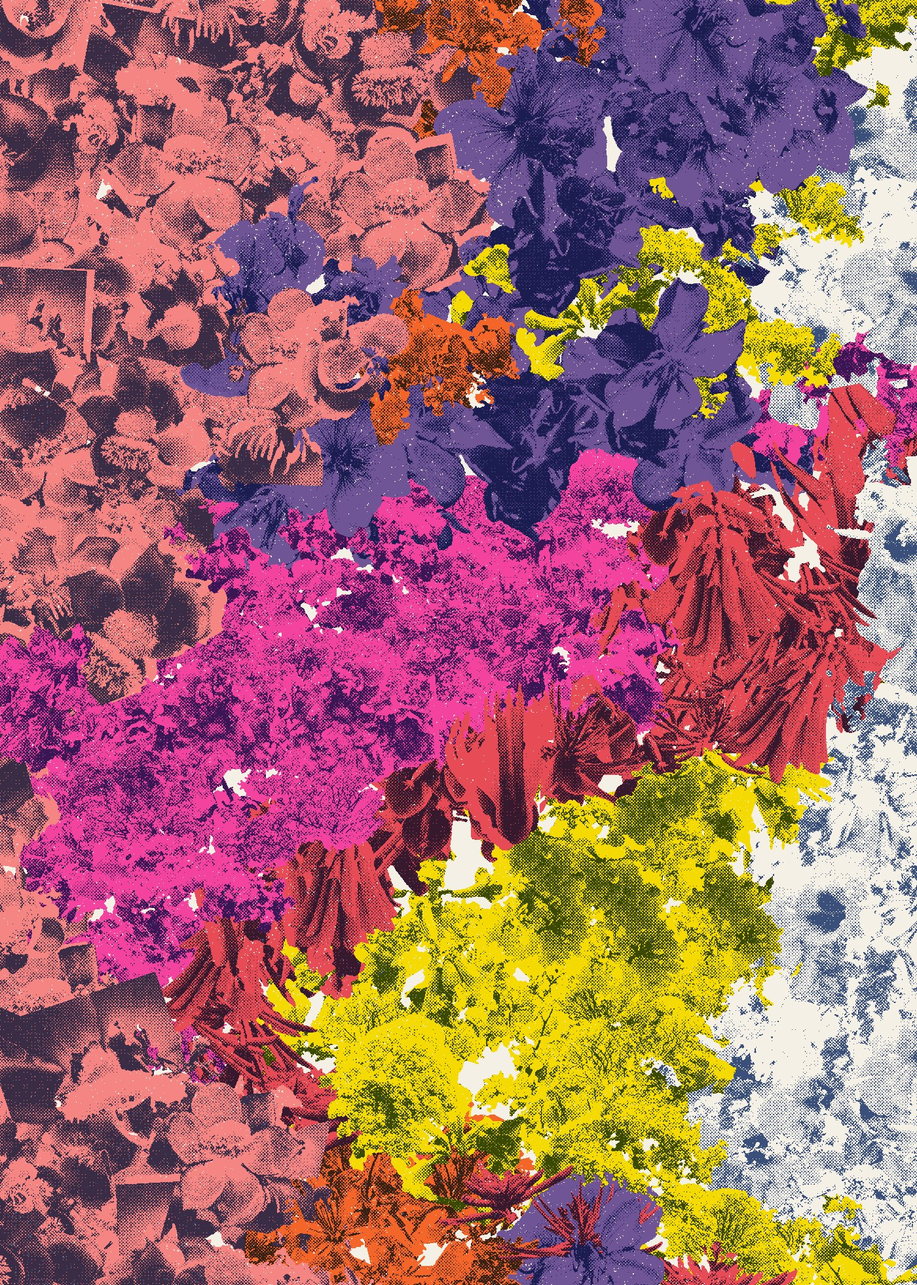
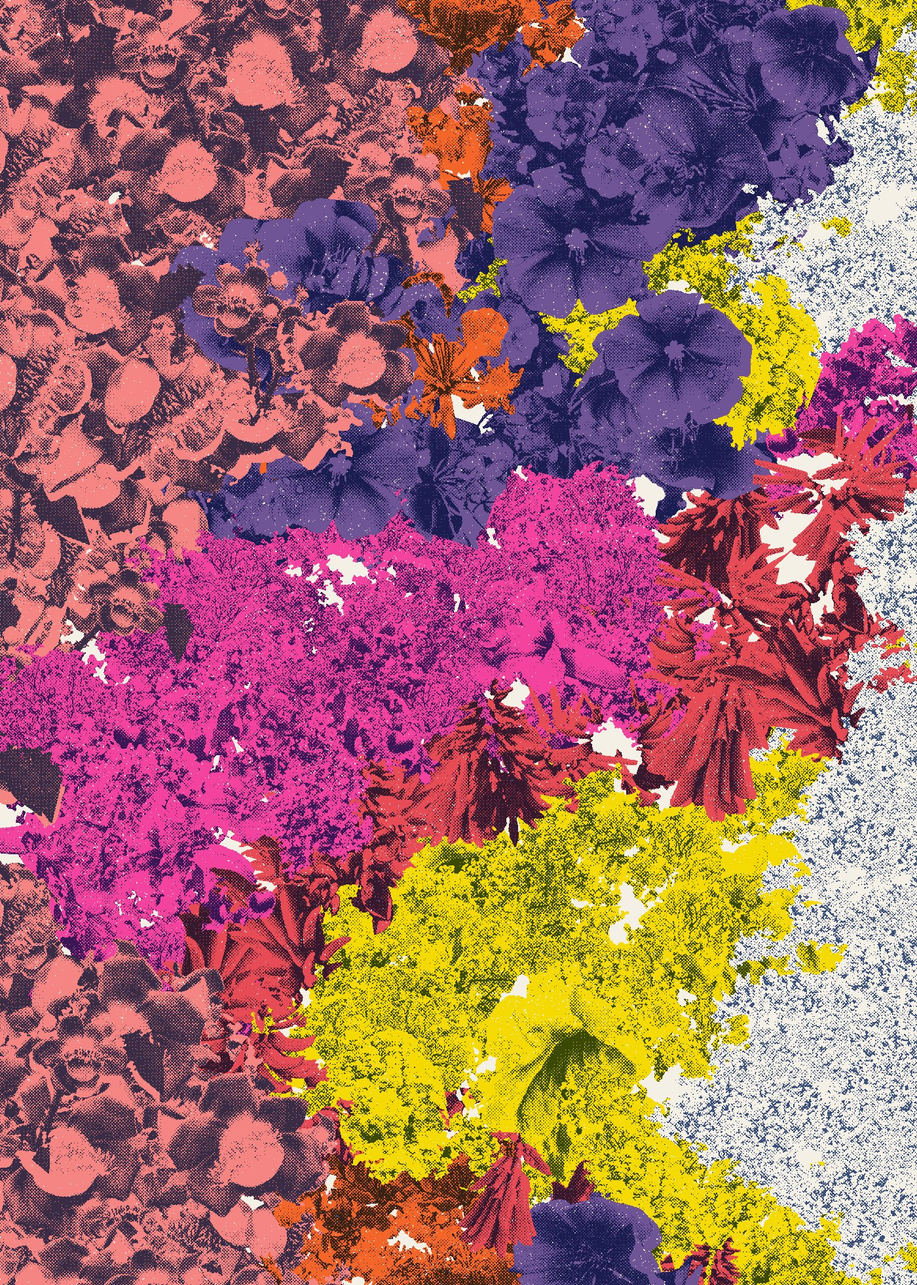
Pôsteres só com fotos CC0
Aves migratórias e árvores em flor refeitos usando apenas fotos do
iNaturalist dedicadas ao domínio público (CC0). Aves: sorteio por espécie,
aves menores e mais espaço. O rodapé de cada pôster agora informa a licença
das fotos.

diff --git a/index.html b/index.html
@@ -131,7 +131,7 @@ footer { font-size: 11.5px; color: var(--muted); max-width: 70ch; }
 </div>
 
 <script>
-const POSTERES = [{"id": "arvores", "titulo": "Árvores em flor", "subtitulo": "As árvores que mais florescem no Rio, semana a semana ao longo do ano. Registros do iNaturalist de 2006 a 2026.", "descricao": "Cada faixa horizontal é uma semana do ano, de janeiro no alto a dezembro embaixo. A largura de cada cor mostra que parte das árvores registradas em flor naquela semana é de cada tipo. As fotos são flores das próprias árvores, recortadas e impressas em retícula.", "unidade": "registros de árvores em flor", "periodo": "2006–2026", "arquivo_alta": "diversidade-do-rio_arvores-em-flor_50x70cm_300dpi.jpg", "n_total": 379, "cores": {"abricó-de-macaco": "#FF8E91", "flamboyant": "#FF6C2F", "quaresmeira": "#765BA7", "ipê-rosa/roxo": "#FF48B0", "mulungu": "#F15060", "ipê-amarelo": "#FFE800", "ipê-branco": "#F4F0E6"}, "meses": [{"mes": "janeiro", "semana_ini": 0, "semana_fim": 5, "total": 36, "grupos": [{"nome": "abricó-de-macaco", "chave": "abricó-de-macaco", "parte": 0.4603, "n": 16}, {"nome": "quaresmeira", "chave": "quaresmeira", "parte": 0.2355, "n": 9}, {"nome": "flamboyant", "chave": "flamboyant", "parte": 0.2043, "n": 7}, {"nome": "ipê-amarelo", "chave": "ipê-amarelo", "parte": 0.0708, "n": 1}, {"nome": "ipê-branco", "chave": "ipê-branco", "parte": 0.0117, "n": 1}, {"nome": "ipê-rosa/roxo", "chave": "ipê-rosa/roxo", "parte": 0.0089, "n": 1}, {"nome": "mulungu", "chave": "mulungu", "parte": 0.0086, "n": 1}]}, {"mes": "fevereiro", "semana_ini": 5, "semana_fim": 9, "total": 21, "grupos": [{"nome": "abricó-de-macaco", "chave": "abricó-de-macaco", "parte": 0.4889, "n": 11}, {"nome": "quaresmeira", "chave": "quaresmeira", "parte": 0.3037, "n": 6}, {"nome": "ipê-branco", "chave": "ipê-branco", "parte": 0.1192, "n": 3}, {"nome": "flamboyant", "chave": "flamboyant", "parte": 0.0661, "n": 1}, {"nome": "ipê-amarelo", "chave": "ipê-amarelo", "parte": 0.0221, "n": 0}]}, {"mes": "março", "semana_ini": 9, "semana_fim": 13, "total": 10, "grupos": [{"nome": "quaresmeira", "chave": "quaresmeira", "parte": 0.3354, "n": 3}, {"nome": "abricó-de-macaco", "chave": "abricó-de-macaco", "parte": 0.2957, "n": 2}, {"nome": "ipê-amarelo", "chave": "ipê-amarelo", "parte": 0.2148, "n": 3}, {"nome": "ipê-branco", "chave": "ipê-branco", "parte": 0.154, "n": 2}]}, {"mes": "abril", "semana_ini": 13, "semana_fim": 18, "total": 10, "grupos": [{"nome": "abricó-de-macaco", "chave": "abricó-de-macaco", "parte": 0.3642, "n": 4}, {"nome": "quaresmeira", "chave": "quaresmeira", "parte": 0.3536, "n": 4}, {"nome": "flamboyant", "chave": "flamboyant", "parte": 0.085, "n": 1}, {"nome": "ipê-branco", "chave": "ipê-branco", "parte": 0.0818, "n": 0}, {"nome": "ipê-rosa/roxo", "chave": "ipê-rosa/roxo", "parte": 0.0732, "n": 1}, {"nome": "ipê-amarelo", "chave": "ipê-amarelo", "parte": 0.0423, "n": 0}]}, {"mes": "maio", "semana_ini": 18, "semana_fim": 22, "total": 6, "grupos": [{"nome": "ipê-rosa/roxo", "chave": "ipê-rosa/roxo", "parte": 0.3092, "n": 1}, {"nome": "quaresmeira", "chave": "quaresmeira", "parte": 0.2745, "n": 2}, {"nome": "abricó-de-macaco", "chave": "abricó-de-macaco", "parte": 0.211, "n": 1}, {"nome": "mulungu", "chave": "mulungu", "parte": 0.193, "n": 2}, {"nome": "flamboyant", "chave": "flamboyant", "parte": 0.0123, "n": 0}]}, {"mes": "junho", "semana_ini": 22, "semana_fim": 26, "total": 18, "grupos": [{"nome": "ipê-rosa/roxo", "chave": "ipê-rosa/roxo", "parte": 0.5296, "n": 9}, {"nome": "mulungu", "chave": "mulungu", "parte": 0.2635, "n": 4}, {"nome": "abricó-de-macaco", "chave": "abricó-de-macaco", "parte": 0.2068, "n": 5}]}, {"mes": "julho", "semana_ini": 26, "semana_fim": 31, "total": 56, "grupos": [{"nome": "ipê-rosa/roxo", "chave": "ipê-rosa/roxo", "parte": 0.5867, "n": 32}, {"nome": "mulungu", "chave": "mulungu", "parte": 0.2487, "n": 15}, {"nome": "ipê-amarelo", "chave": "ipê-amarelo", "parte": 0.0853, "n": 5}, {"nome": "ipê-branco", "chave": "ipê-branco", "parte": 0.0529, "n": 2}, {"nome": "abricó-de-macaco", "chave": "abricó-de-macaco", "parte": 0.0264, "n": 1}, {"nome": "quaresmeira", "chave": "quaresmeira", "parte": 0.0, "n": 1}]}, {"mes": "agosto", "semana_ini": 31, "semana_fim": 35, "total": 65, "grupos": [{"nome": "ipê-amarelo", "chave": "ipê-amarelo", "parte": 0.3724, "n": 24}, {"nome": "ipê-rosa/roxo", "chave": "ipê-rosa/roxo", "parte": 0.3585, "n": 23}, {"nome": "mulungu", "chave": "mulungu", "parte": 0.1535, "n": 8}, {"nome": "ipê-branco", "chave": "ipê-branco", "parte": 0.1044, "n": 6}, {"nome": "abricó-de-macaco", "chave": "abricó-de-macaco", "parte": 0.0112, "n": 2}, {"nome": "quaresmeira", "chave": "quaresmeira", "parte": 0.0, "n": 2}]}, {"mes": "setembro", "semana_ini": 35, "semana_fim": 39, "total": 58, "grupos": [{"nome": "ipê-amarelo", "chave": "ipê-amarelo", "parte": 0.5051, "n": 30}, {"nome": "ipê-rosa/roxo", "chave": "ipê-rosa/roxo", "parte": 0.1851, "n": 9}, {"nome": "ipê-branco", "chave": "ipê-branco", "parte": 0.1546, "n": 9}, {"nome": "mulungu", "chave": "mulungu", "parte": 0.1061, "n": 6}, {"nome": "abricó-de-macaco", "chave": "abricó-de-macaco", "parte": 0.049, "n": 3}, {"nome": "quaresmeira", "chave": "quaresmeira", "parte": 0.0, "n": 1}]}, {"mes": "outubro", "semana_ini": 39, "semana_fim": 44, "total": 48, "grupos": [{"nome": "ipê-amarelo", "chave": "ipê-amarelo", "parte": 0.4361, "n": 20}, {"nome": "ipê-branco", "chave": "ipê-branco", "parte": 0.2371, "n": 13}, {"nome": "abricó-de-macaco", "chave": "abricó-de-macaco", "parte": 0.1468, "n": 6}, {"nome": "ipê-rosa/roxo", "chave": "ipê-rosa/roxo", "parte": 0.0983, "n": 5}, {"nome": "mulungu", "chave": "mulungu", "parte": 0.0712, "n": 3}, {"nome": "flamboyant", "chave": "flamboyant", "parte": 0.0106, "n": 1}]}, {"mes": "novembro", "semana_ini": 44, "semana_fim": 48, "total": 28, "grupos": [{"nome": "ipê-amarelo", "chave": "ipê-amarelo", "parte": 0.3039, "n": 6}, {"nome": "abricó-de-macaco", "chave": "abricó-de-macaco", "parte": 0.2741, "n": 9}, {"nome": "ipê-branco", "chave": "ipê-branco", "parte": 0.2415, "n": 7}, {"nome": "flamboyant", "chave": "flamboyant", "parte": 0.1114, "n": 3}, {"nome": "quaresmeira", "chave": "quaresmeira", "parte": 0.0409, "n": 2}, {"nome": "mulungu", "chave": "mulungu", "parte": 0.0282, "n": 1}]}, {"mes": "dezembro", "semana_ini": 48, "semana_fim": 52, "total": 23, "grupos": [{"nome": "ipê-amarelo", "chave": "ipê-amarelo", "parte": 0.3227, "n": 10}, {"nome": "abricó-de-macaco", "chave": "abricó-de-macaco", "parte": 0.3135, "n": 5}, {"nome": "flamboyant", "chave": "flamboyant", "parte": 0.2385, "n": 6}, {"nome": "mulungu", "chave": "mulungu", "parte": 0.0701, "n": 2}, {"nome": "quaresmeira", "chave": "quaresmeira", "parte": 0.0423, "n": 0}, {"nome": "ipê-branco", "chave": "ipê-branco", "parte": 0.0129, "n": 0}]}], "alta_px": [5906, 8268], "alta_mb": 14.0}, {"id": "aves", "titulo": "Aves migratórias", "subtitulo": "As aves migratórias mais registradas no Rio, semana a semana ao longo do ano. Registros do iNaturalist de 2010 a 2026.", "descricao": "O mesmo calendário, com as 19 aves migratórias mais registradas no Rio. Azul para as que fogem do inverno do norte (maçaricos e batuíras do Ártico), vermelho para as que fogem do inverno do sul e amarelo para as que vêm fazer ninho. Cada cor foi tirada das próprias aves do grupo. Aves residentes não entram.", "unidade": "registros de aves migratórias", "periodo": "2010–2026", "arquivo_alta": "diversidade-do-rio_aves-migratorias_50x70cm_300dpi.jpg", "n_total": 650, "cores": {"fogem do inverno do norte": "#4F7DB3", "fogem do inverno do sul": "#D0342C", "vêm fazer ninho": "#E8B72E"}, "meses": [{"mes": "janeiro", "semana_ini": 0, "semana_fim": 5, "total": 123, "grupos": [{"nome": "fogem do inverno do norte", "chave": "visitantes do norte", "parte": 0.8167, "n": 106}, {"nome": "vêm fazer ninho", "chave": "chegam para reproduzir", "parte": 0.1833, "n": 17}], "destaques": [{"nome": "maçarico-de-bico-torto", "n": 19}, {"nome": "perna-amarela-pequena", "n": 14}, {"nome": "batuíra-de-bando", "n": 14}, {"nome": "maçarico-d'asa-branca", "n": 10}]}, {"mes": "fevereiro", "semana_ini": 5, "semana_fim": 9, "total": 17, "grupos": [{"nome": "fogem do inverno do norte", "chave": "visitantes do norte", "parte": 0.7065, "n": 11}, {"nome": "vêm fazer ninho", "chave": "chegam para reproduzir", "parte": 0.2935, "n": 6}], "destaques": [{"nome": "gavião-bombachinha", "n": 3}, {"nome": "bem-te-vi-rajado", "n": 3}, {"nome": "maçarico-pintado", "n": 2}, {"nome": "maçarico-de-bico-torto", "n": 2}]}, {"mes": "março", "semana_ini": 9, "semana_fim": 13, "total": 67, "grupos": [{"nome": "fogem do inverno do norte", "chave": "visitantes do norte", "parte": 0.9437, "n": 63}, {"nome": "vêm fazer ninho", "chave": "chegam para reproduzir", "parte": 0.0563, "n": 3}, {"nome": "fogem do inverno do sul", "chave": "visitantes do sul", "parte": 0.0, "n": 1}], "destaques": [{"nome": "pilrito-de-sobre-branco", "n": 13}, {"nome": "perna-amarela-pequena", "n": 11}, {"nome": "batuíra-de-bando", "n": 11}, {"nome": "maçarico-de-bico-torto", "n": 9}]}, {"mes": "abril", "semana_ini": 13, "semana_fim": 18, "total": 97, "grupos": [{"nome": "fogem do inverno do norte", "chave": "visitantes do norte", "parte": 0.8987, "n": 86}, {"nome": "fogem do inverno do sul", "chave": "visitantes do sul", "parte": 0.0648, "n": 6}, {"nome": "vêm fazer ninho", "chave": "chegam para reproduzir", "parte": 0.0365, "n": 5}], "destaques": [{"nome": "pilrito-de-sobre-branco", "n": 19}, {"nome": "batuíra-de-bando", "n": 14}, {"nome": "rola-do-mar", "n": 12}, {"nome": "tarambola-cinzenta", "n": 11}]}, {"mes": "maio", "semana_ini": 18, "semana_fim": 22, "total": 21, "grupos": [{"nome": "fogem do inverno do norte", "chave": "visitantes do norte", "parte": 0.614, "n": 13}, {"nome": "fogem do inverno do sul", "chave": "visitantes do sul", "parte": 0.3733, "n": 8}, {"nome": "vêm fazer ninho", "chave": "chegam para reproduzir", "parte": 0.0127, "n": 0}], "destaques": [{"nome": "maçarico-de-bico-torto", "n": 6}, {"nome": "sabiá-poca", "n": 5}, {"nome": "príncipe", "n": 3}, {"nome": "pilrito-de-sobre-branco", "n": 3}]}, {"mes": "junho", "semana_ini": 22, "semana_fim": 26, "total": 23, "grupos": [{"nome": "fogem do inverno do sul", "chave": "visitantes do sul", "parte": 0.8113, "n": 20}, {"nome": "fogem do inverno do norte", "chave": "visitantes do norte", "parte": 0.1887, "n": 3}], "destaques": [{"nome": "sabiá-poca", "n": 15}, {"nome": "príncipe", "n": 4}, {"nome": "maçarico-de-bico-torto", "n": 2}, {"nome": "tarambola-cinzenta", "n": 1}]}, {"mes": "julho", "semana_ini": 26, "semana_fim": 31, "total": 44, "grupos": [{"nome": "fogem do inverno do sul", "chave": "visitantes do sul", "parte": 0.803, "n": 35}, {"nome": "fogem do inverno do norte", "chave": "visitantes do norte", "parte": 0.197, "n": 9}], "destaques": [{"nome": "sabiá-poca", "n": 20}, {"nome": "pinguim-de-Magalhães", "n": 8}, {"nome": "príncipe", "n": 7}, {"nome": "pilrito-das-praias", "n": 2}]}, {"mes": "agosto", "semana_ini": 31, "semana_fim": 35, "total": 32, "grupos": [{"nome": "fogem do inverno do sul", "chave": "visitantes do sul", "parte": 0.7888, "n": 27}, {"nome": "fogem do inverno do norte", "chave": "visitantes do norte", "parte": 0.1964, "n": 5}, {"nome": "vêm fazer ninho", "chave": "chegam para reproduzir", "parte": 0.0148, "n": 0}], "destaques": [{"nome": "sabiá-poca", "n": 24}, {"nome": "príncipe", "n": 2}, {"nome": "maçarico-d'asa-branca", "n": 2}, {"nome": "águia-pesqueira", "n": 1}]}, {"mes": "setembro", "semana_ini": 35, "semana_fim": 39, "total": 29, "grupos": [{"nome": "fogem do inverno do sul", "chave": "visitantes do sul", "parte": 0.4112, "n": 13}, {"nome": "fogem do inverno do norte", "chave": "visitantes do norte", "parte": 0.3329, "n": 7}, {"nome": "vêm fazer ninho", "chave": "chegam para reproduzir", "parte": 0.2559, "n": 9}], "destaques": [{"nome": "sabiá-poca", "n": 9}, {"nome": "bem-te-vi-rajado", "n": 7}, {"nome": "príncipe", "n": 3}, {"nome": "águia-pesqueira", "n": 1}]}, {"mes": "outubro", "semana_ini": 39, "semana_fim": 44, "total": 75, "grupos": [{"nome": "fogem do inverno do norte", "chave": "visitantes do norte", "parte": 0.4756, "n": 36}, {"nome": "vêm fazer ninho", "chave": "chegam para reproduzir", "parte": 0.3633, "n": 27}, {"nome": "fogem do inverno do sul", "chave": "visitantes do sul", "parte": 0.1611, "n": 12}], "destaques": [{"nome": "bem-te-vi-rajado", "n": 19}, {"nome": "príncipe", "n": 11}, {"nome": "gavião-bombachinha", "n": 8}, {"nome": "pilrito-das-praias", "n": 6}]}, {"mes": "novembro", "semana_ini": 44, "semana_fim": 48, "total": 58, "grupos": [{"nome": "fogem do inverno do norte", "chave": "visitantes do norte", "parte": 0.6929, "n": 41}, {"nome": "vêm fazer ninho", "chave": "chegam para reproduzir", "parte": 0.2918, "n": 17}, {"nome": "fogem do inverno do sul", "chave": "visitantes do sul", "parte": 0.0153, "n": 0}], "destaques": [{"nome": "gavião-bombachinha", "n": 9}, {"nome": "maçarico-pintado", "n": 8}, {"nome": "bem-te-vi-rajado", "n": 6}, {"nome": "tarambola-cinzenta", "n": 5}]}, {"mes": "dezembro", "semana_ini": 48, "semana_fim": 52, "total": 64, "grupos": [{"nome": "fogem do inverno do norte", "chave": "visitantes do norte", "parte": 0.7917, "n": 46}, {"nome": "vêm fazer ninho", "chave": "chegam para reproduzir", "parte": 0.2083, "n": 17}, {"nome": "fogem do inverno do sul", "chave": "visitantes do sul", "parte": 0.0, "n": 1}], "destaques": [{"nome": "gavião-bombachinha", "n": 11}, {"nome": "pilrito-das-praias", "n": 6}, {"nome": "águia-pesqueira", "n": 5}, {"nome": "maçarico-de-bico-torto", "n": 5}]}], "alta_px": [5906, 8268], "alta_mb": 12.6}];
+const POSTERES = [{"id": "arvores", "titulo": "Árvores em flor", "subtitulo": "As árvores que mais florescem no Rio, semana a semana ao longo do ano. Registros do iNaturalist de 2006 a 2026.", "descricao": "Cada faixa horizontal é uma semana do ano, de janeiro no alto a dezembro embaixo. A largura de cada cor mostra que parte das árvores registradas em flor naquela semana é de cada tipo. As fotos são flores das próprias árvores, recortadas e impressas em retícula.", "fotos": "Fotos de flores do iNaturalist dedicadas ao domínio público (CC0), recortadas e reprocessadas em retícula.", "unidade": "registros de árvores em flor", "periodo": "2006–2026", "arquivo_alta": "diversidade-do-rio_arvores-em-flor_50x70cm_300dpi.jpg", "n_total": 379, "cores": {"abricó-de-macaco": "#FF8E91", "flamboyant": "#FF6C2F", "quaresmeira": "#765BA7", "ipê-rosa/roxo": "#FF48B0", "mulungu": "#F15060", "ipê-amarelo": "#FFE800", "ipê-branco": "#F4F0E6"}, "meses": [{"mes": "janeiro", "semana_ini": 0, "semana_fim": 5, "total": 36, "grupos": [{"nome": "abricó-de-macaco", "chave": "abricó-de-macaco", "parte": 0.4603, "n": 16}, {"nome": "quaresmeira", "chave": "quaresmeira", "parte": 0.2355, "n": 9}, {"nome": "flamboyant", "chave": "flamboyant", "parte": 0.2043, "n": 7}, {"nome": "ipê-amarelo", "chave": "ipê-amarelo", "parte": 0.0708, "n": 1}, {"nome": "ipê-branco", "chave": "ipê-branco", "parte": 0.0117, "n": 1}, {"nome": "ipê-rosa/roxo", "chave": "ipê-rosa/roxo", "parte": 0.0089, "n": 1}, {"nome": "mulungu", "chave": "mulungu", "parte": 0.0086, "n": 1}]}, {"mes": "fevereiro", "semana_ini": 5, "semana_fim": 9, "total": 21, "grupos": [{"nome": "abricó-de-macaco", "chave": "abricó-de-macaco", "parte": 0.4889, "n": 11}, {"nome": "quaresmeira", "chave": "quaresmeira", "parte": 0.3037, "n": 6}, {"nome": "ipê-branco", "chave": "ipê-branco", "parte": 0.1192, "n": 3}, {"nome": "flamboyant", "chave": "flamboyant", "parte": 0.0661, "n": 1}, {"nome": "ipê-amarelo", "chave": "ipê-amarelo", "parte": 0.0221, "n": 0}]}, {"mes": "março", "semana_ini": 9, "semana_fim": 13, "total": 10, "grupos": [{"nome": "quaresmeira", "chave": "quaresmeira", "parte": 0.3354, "n": 3}, {"nome": "abricó-de-macaco", "chave": "abricó-de-macaco", "parte": 0.2957, "n": 2}, {"nome": "ipê-amarelo", "chave": "ipê-amarelo", "parte": 0.2148, "n": 3}, {"nome": "ipê-branco", "chave": "ipê-branco", "parte": 0.154, "n": 2}]}, {"mes": "abril", "semana_ini": 13, "semana_fim": 18, "total": 10, "grupos": [{"nome": "abricó-de-macaco", "chave": "abricó-de-macaco", "parte": 0.3642, "n": 4}, {"nome": "quaresmeira", "chave": "quaresmeira", "parte": 0.3536, "n": 4}, {"nome": "flamboyant", "chave": "flamboyant", "parte": 0.085, "n": 1}, {"nome": "ipê-branco", "chave": "ipê-branco", "parte": 0.0818, "n": 0}, {"nome": "ipê-rosa/roxo", "chave": "ipê-rosa/roxo", "parte": 0.0732, "n": 1}, {"nome": "ipê-amarelo", "chave": "ipê-amarelo", "parte": 0.0423, "n": 0}]}, {"mes": "maio", "semana_ini": 18, "semana_fim": 22, "total": 6, "grupos": [{"nome": "ipê-rosa/roxo", "chave": "ipê-rosa/roxo", "parte": 0.3092, "n": 1}, {"nome": "quaresmeira", "chave": "quaresmeira", "parte": 0.2745, "n": 2}, {"nome": "abricó-de-macaco", "chave": "abricó-de-macaco", "parte": 0.211, "n": 1}, {"nome": "mulungu", "chave": "mulungu", "parte": 0.193, "n": 2}, {"nome": "flamboyant", "chave": "flamboyant", "parte": 0.0123, "n": 0}]}, {"mes": "junho", "semana_ini": 22, "semana_fim": 26, "total": 18, "grupos": [{"nome": "ipê-rosa/roxo", "chave": "ipê-rosa/roxo", "parte": 0.5296, "n": 9}, {"nome": "mulungu", "chave": "mulungu", "parte": 0.2635, "n": 4}, {"nome": "abricó-de-macaco", "chave": "abricó-de-macaco", "parte": 0.2068, "n": 5}]}, {"mes": "julho", "semana_ini": 26, "semana_fim": 31, "total": 56, "grupos": [{"nome": "ipê-rosa/roxo", "chave": "ipê-rosa/roxo", "parte": 0.5867, "n": 32}, {"nome": "mulungu", "chave": "mulungu", "parte": 0.2487, "n": 15}, {"nome": "ipê-amarelo", "chave": "ipê-amarelo", "parte": 0.0853, "n": 5}, {"nome": "ipê-branco", "chave": "ipê-branco", "parte": 0.0529, "n": 2}, {"nome": "abricó-de-macaco", "chave": "abricó-de-macaco", "parte": 0.0264, "n": 1}, {"nome": "quaresmeira", "chave": "quaresmeira", "parte": 0.0, "n": 1}]}, {"mes": "agosto", "semana_ini": 31, "semana_fim": 35, "total": 65, "grupos": [{"nome": "ipê-amarelo", "chave": "ipê-amarelo", "parte": 0.3724, "n": 24}, {"nome": "ipê-rosa/roxo", "chave": "ipê-rosa/roxo", "parte": 0.3585, "n": 23}, {"nome": "mulungu", "chave": "mulungu", "parte": 0.1535, "n": 8}, {"nome": "ipê-branco", "chave": "ipê-branco", "parte": 0.1044, "n": 6}, {"nome": "abricó-de-macaco", "chave": "abricó-de-macaco", "parte": 0.0112, "n": 2}, {"nome": "quaresmeira", "chave": "quaresmeira", "parte": 0.0, "n": 2}]}, {"mes": "setembro", "semana_ini": 35, "semana_fim": 39, "total": 58, "grupos": [{"nome": "ipê-amarelo", "chave": "ipê-amarelo", "parte": 0.5051, "n": 30}, {"nome": "ipê-rosa/roxo", "chave": "ipê-rosa/roxo", "parte": 0.1851, "n": 9}, {"nome": "ipê-branco", "chave": "ipê-branco", "parte": 0.1546, "n": 9}, {"nome": "mulungu", "chave": "mulungu", "parte": 0.1061, "n": 6}, {"nome": "abricó-de-macaco", "chave": "abricó-de-macaco", "parte": 0.049, "n": 3}, {"nome": "quaresmeira", "chave": "quaresmeira", "parte": 0.0, "n": 1}]}, {"mes": "outubro", "semana_ini": 39, "semana_fim": 44, "total": 48, "grupos": [{"nome": "ipê-amarelo", "chave": "ipê-amarelo", "parte": 0.4361, "n": 20}, {"nome": "ipê-branco", "chave": "ipê-branco", "parte": 0.2371, "n": 13}, {"nome": "abricó-de-macaco", "chave": "abricó-de-macaco", "parte": 0.1468, "n": 6}, {"nome": "ipê-rosa/roxo", "chave": "ipê-rosa/roxo", "parte": 0.0983, "n": 5}, {"nome": "mulungu", "chave": "mulungu", "parte": 0.0712, "n": 3}, {"nome": "flamboyant", "chave": "flamboyant", "parte": 0.0106, "n": 1}]}, {"mes": "novembro", "semana_ini": 44, "semana_fim": 48, "total": 28, "grupos": [{"nome": "ipê-amarelo", "chave": "ipê-amarelo", "parte": 0.3039, "n": 6}, {"nome": "abricó-de-macaco", "chave": "abricó-de-macaco", "parte": 0.2741, "n": 9}, {"nome": "ipê-branco", "chave": "ipê-branco", "parte": 0.2415, "n": 7}, {"nome": "flamboyant", "chave": "flamboyant", "parte": 0.1114, "n": 3}, {"nome": "quaresmeira", "chave": "quaresmeira", "parte": 0.0409, "n": 2}, {"nome": "mulungu", "chave": "mulungu", "parte": 0.0282, "n": 1}]}, {"mes": "dezembro", "semana_ini": 48, "semana_fim": 52, "total": 23, "grupos": [{"nome": "ipê-amarelo", "chave": "ipê-amarelo", "parte": 0.3227, "n": 10}, {"nome": "abricó-de-macaco", "chave": "abricó-de-macaco", "parte": 0.3135, "n": 5}, {"nome": "flamboyant", "chave": "flamboyant", "parte": 0.2385, "n": 6}, {"nome": "mulungu", "chave": "mulungu", "parte": 0.0701, "n": 2}, {"nome": "quaresmeira", "chave": "quaresmeira", "parte": 0.0423, "n": 0}, {"nome": "ipê-branco", "chave": "ipê-branco", "parte": 0.0129, "n": 0}]}], "alta_px": [5906, 8268], "alta_mb": 14.0}, {"id": "aves", "titulo": "Aves migratórias", "subtitulo": "As aves migratórias mais registradas no Rio, semana a semana ao longo do ano. Registros do iNaturalist de 2010 a 2026.", "descricao": "O mesmo calendário, com as 19 aves migratórias mais registradas no Rio. Azul para as que fogem do inverno do norte (maçaricos e batuíras do Ártico), vermelho para as que fogem do inverno do sul e amarelo para as que vêm fazer ninho. Cada cor foi tirada das próprias aves do grupo. Aves residentes não entram.", "fotos": "Fotos de aves do iNaturalist dedicadas ao domínio público (CC0), recortadas e reprocessadas em retícula.", "unidade": "registros de aves migratórias", "periodo": "2010–2026", "arquivo_alta": "diversidade-do-rio_aves-migratorias_50x70cm_300dpi.jpg", "n_total": 650, "cores": {"fogem do inverno do norte": "#4F7DB3", "fogem do inverno do sul": "#D0342C", "vêm fazer ninho": "#E8B72E"}, "meses": [{"mes": "janeiro", "semana_ini": 0, "semana_fim": 5, "total": 123, "grupos": [{"nome": "fogem do inverno do norte", "chave": "visitantes do norte", "parte": 0.8167, "n": 106}, {"nome": "vêm fazer ninho", "chave": "chegam para reproduzir", "parte": 0.1833, "n": 17}], "destaques": [{"nome": "maçarico-de-bico-torto", "n": 19}, {"nome": "perna-amarela-pequena", "n": 14}, {"nome": "batuíra-de-bando", "n": 14}, {"nome": "maçarico-d'asa-branca", "n": 10}]}, {"mes": "fevereiro", "semana_ini": 5, "semana_fim": 9, "total": 17, "grupos": [{"nome": "fogem do inverno do norte", "chave": "visitantes do norte", "parte": 0.7065, "n": 11}, {"nome": "vêm fazer ninho", "chave": "chegam para reproduzir", "parte": 0.2935, "n": 6}], "destaques": [{"nome": "gavião-bombachinha", "n": 3}, {"nome": "bem-te-vi-rajado", "n": 3}, {"nome": "maçarico-pintado", "n": 2}, {"nome": "maçarico-de-bico-torto", "n": 2}]}, {"mes": "março", "semana_ini": 9, "semana_fim": 13, "total": 67, "grupos": [{"nome": "fogem do inverno do norte", "chave": "visitantes do norte", "parte": 0.9437, "n": 63}, {"nome": "vêm fazer ninho", "chave": "chegam para reproduzir", "parte": 0.0563, "n": 3}, {"nome": "fogem do inverno do sul", "chave": "visitantes do sul", "parte": 0.0, "n": 1}], "destaques": [{"nome": "pilrito-de-sobre-branco", "n": 13}, {"nome": "perna-amarela-pequena", "n": 11}, {"nome": "batuíra-de-bando", "n": 11}, {"nome": "maçarico-de-bico-torto", "n": 9}]}, {"mes": "abril", "semana_ini": 13, "semana_fim": 18, "total": 97, "grupos": [{"nome": "fogem do inverno do norte", "chave": "visitantes do norte", "parte": 0.8987, "n": 86}, {"nome": "fogem do inverno do sul", "chave": "visitantes do sul", "parte": 0.0648, "n": 6}, {"nome": "vêm fazer ninho", "chave": "chegam para reproduzir", "parte": 0.0365, "n": 5}], "destaques": [{"nome": "pilrito-de-sobre-branco", "n": 19}, {"nome": "batuíra-de-bando", "n": 14}, {"nome": "rola-do-mar", "n": 12}, {"nome": "tarambola-cinzenta", "n": 11}]}, {"mes": "maio", "semana_ini": 18, "semana_fim": 22, "total": 21, "grupos": [{"nome": "fogem do inverno do norte", "chave": "visitantes do norte", "parte": 0.614, "n": 13}, {"nome": "fogem do inverno do sul", "chave": "visitantes do sul", "parte": 0.3733, "n": 8}, {"nome": "vêm fazer ninho", "chave": "chegam para reproduzir", "parte": 0.0127, "n": 0}], "destaques": [{"nome": "maçarico-de-bico-torto", "n": 6}, {"nome": "sabiá-poca", "n": 5}, {"nome": "príncipe", "n": 3}, {"nome": "pilrito-de-sobre-branco", "n": 3}]}, {"mes": "junho", "semana_ini": 22, "semana_fim": 26, "total": 23, "grupos": [{"nome": "fogem do inverno do sul", "chave": "visitantes do sul", "parte": 0.8113, "n": 20}, {"nome": "fogem do inverno do norte", "chave": "visitantes do norte", "parte": 0.1887, "n": 3}], "destaques": [{"nome": "sabiá-poca", "n": 15}, {"nome": "príncipe", "n": 4}, {"nome": "maçarico-de-bico-torto", "n": 2}, {"nome": "tarambola-cinzenta", "n": 1}]}, {"mes": "julho", "semana_ini": 26, "semana_fim": 31, "total": 44, "grupos": [{"nome": "fogem do inverno do sul", "chave": "visitantes do sul", "parte": 0.803, "n": 35}, {"nome": "fogem do inverno do norte", "chave": "visitantes do norte", "parte": 0.197, "n": 9}], "destaques": [{"nome": "sabiá-poca", "n": 20}, {"nome": "pinguim-de-Magalhães", "n": 8}, {"nome": "príncipe", "n": 7}, {"nome": "pilrito-das-praias", "n": 2}]}, {"mes": "agosto", "semana_ini": 31, "semana_fim": 35, "total": 32, "grupos": [{"nome": "fogem do inverno do sul", "chave": "visitantes do sul", "parte": 0.7888, "n": 27}, {"nome": "fogem do inverno do norte", "chave": "visitantes do norte", "parte": 0.1964, "n": 5}, {"nome": "vêm fazer ninho", "chave": "chegam para reproduzir", "parte": 0.0148, "n": 0}], "destaques": [{"nome": "sabiá-poca", "n": 24}, {"nome": "príncipe", "n": 2}, {"nome": "maçarico-d'asa-branca", "n": 2}, {"nome": "águia-pesqueira", "n": 1}]}, {"mes": "setembro", "semana_ini": 35, "semana_fim": 39, "total": 29, "grupos": [{"nome": "fogem do inverno do sul", "chave": "visitantes do sul", "parte": 0.4112, "n": 13}, {"nome": "fogem do inverno do norte", "chave": "visitantes do norte", "parte": 0.3329, "n": 7}, {"nome": "vêm fazer ninho", "chave": "chegam para reproduzir", "parte": 0.2559, "n": 9}], "destaques": [{"nome": "sabiá-poca", "n": 9}, {"nome": "bem-te-vi-rajado", "n": 7}, {"nome": "príncipe", "n": 3}, {"nome": "águia-pesqueira", "n": 1}]}, {"mes": "outubro", "semana_ini": 39, "semana_fim": 44, "total": 75, "grupos": [{"nome": "fogem do inverno do norte", "chave": "visitantes do norte", "parte": 0.4756, "n": 36}, {"nome": "vêm fazer ninho", "chave": "chegam para reproduzir", "parte": 0.3633, "n": 27}, {"nome": "fogem do inverno do sul", "chave": "visitantes do sul", "parte": 0.1611, "n": 12}], "destaques": [{"nome": "bem-te-vi-rajado", "n": 19}, {"nome": "príncipe", "n": 11}, {"nome": "gavião-bombachinha", "n": 8}, {"nome": "pilrito-das-praias", "n": 6}]}, {"mes": "novembro", "semana_ini": 44, "semana_fim": 48, "total": 58, "grupos": [{"nome": "fogem do inverno do norte", "chave": "visitantes do norte", "parte": 0.6929, "n": 41}, {"nome": "vêm fazer ninho", "chave": "chegam para reproduzir", "parte": 0.2918, "n": 17}, {"nome": "fogem do inverno do sul", "chave": "visitantes do sul", "parte": 0.0153, "n": 0}], "destaques": [{"nome": "gavião-bombachinha", "n": 9}, {"nome": "maçarico-pintado", "n": 8}, {"nome": "bem-te-vi-rajado", "n": 6}, {"nome": "tarambola-cinzenta", "n": 5}]}, {"mes": "dezembro", "semana_ini": 48, "semana_fim": 52, "total": 64, "grupos": [{"nome": "fogem do inverno do norte", "chave": "visitantes do norte", "parte": 0.7917, "n": 46}, {"nome": "vêm fazer ninho", "chave": "chegam para reproduzir", "parte": 0.2083, "n": 17}, {"nome": "fogem do inverno do sul", "chave": "visitantes do sul", "parte": 0.0, "n": 1}], "destaques": [{"nome": "gavião-bombachinha", "n": 11}, {"nome": "pilrito-das-praias", "n": 6}, {"nome": "águia-pesqueira", "n": 5}, {"nome": "maçarico-de-bico-torto", "n": 5}]}], "alta_px": [5906, 8268], "alta_mb": 13.7}];
 const $ = id => document.getElementById(id);
 const poster = $("poster"), balao = $("balao"), faixa = $("faixa");
 let atual = POSTERES[0], mesAtual = -1;
@@ -160,7 +160,7 @@ function mostrarPoster(id) {
   $("infoBaixar").textContent = [`JPEG`, px, atual.alta_mb ? `${atual.alta_mb} MB` : ""].filter(Boolean).join(" · ");
   $("botaoBaixar").disabled = false; $("botaoBaixar").textContent = "Baixar em alta resolução";
   $("rodape").textContent = `Dados: iNaturalist, município do Rio de Janeiro, ${atual.n_total} ${atual.unidade} (${atual.periodo}), ` +
-    `todos os anos somados, suavização gaussiana circular de 1,5 semana. Fotos do iNaturalist com licenças CC0 e CC-BY; créditos completos no verso de cada pôster.`;
+    `todos os anos somados, suavização gaussiana circular de 1,5 semana. ${atual.fotos}`;
 }
 
 function mesEm(fracY) {
